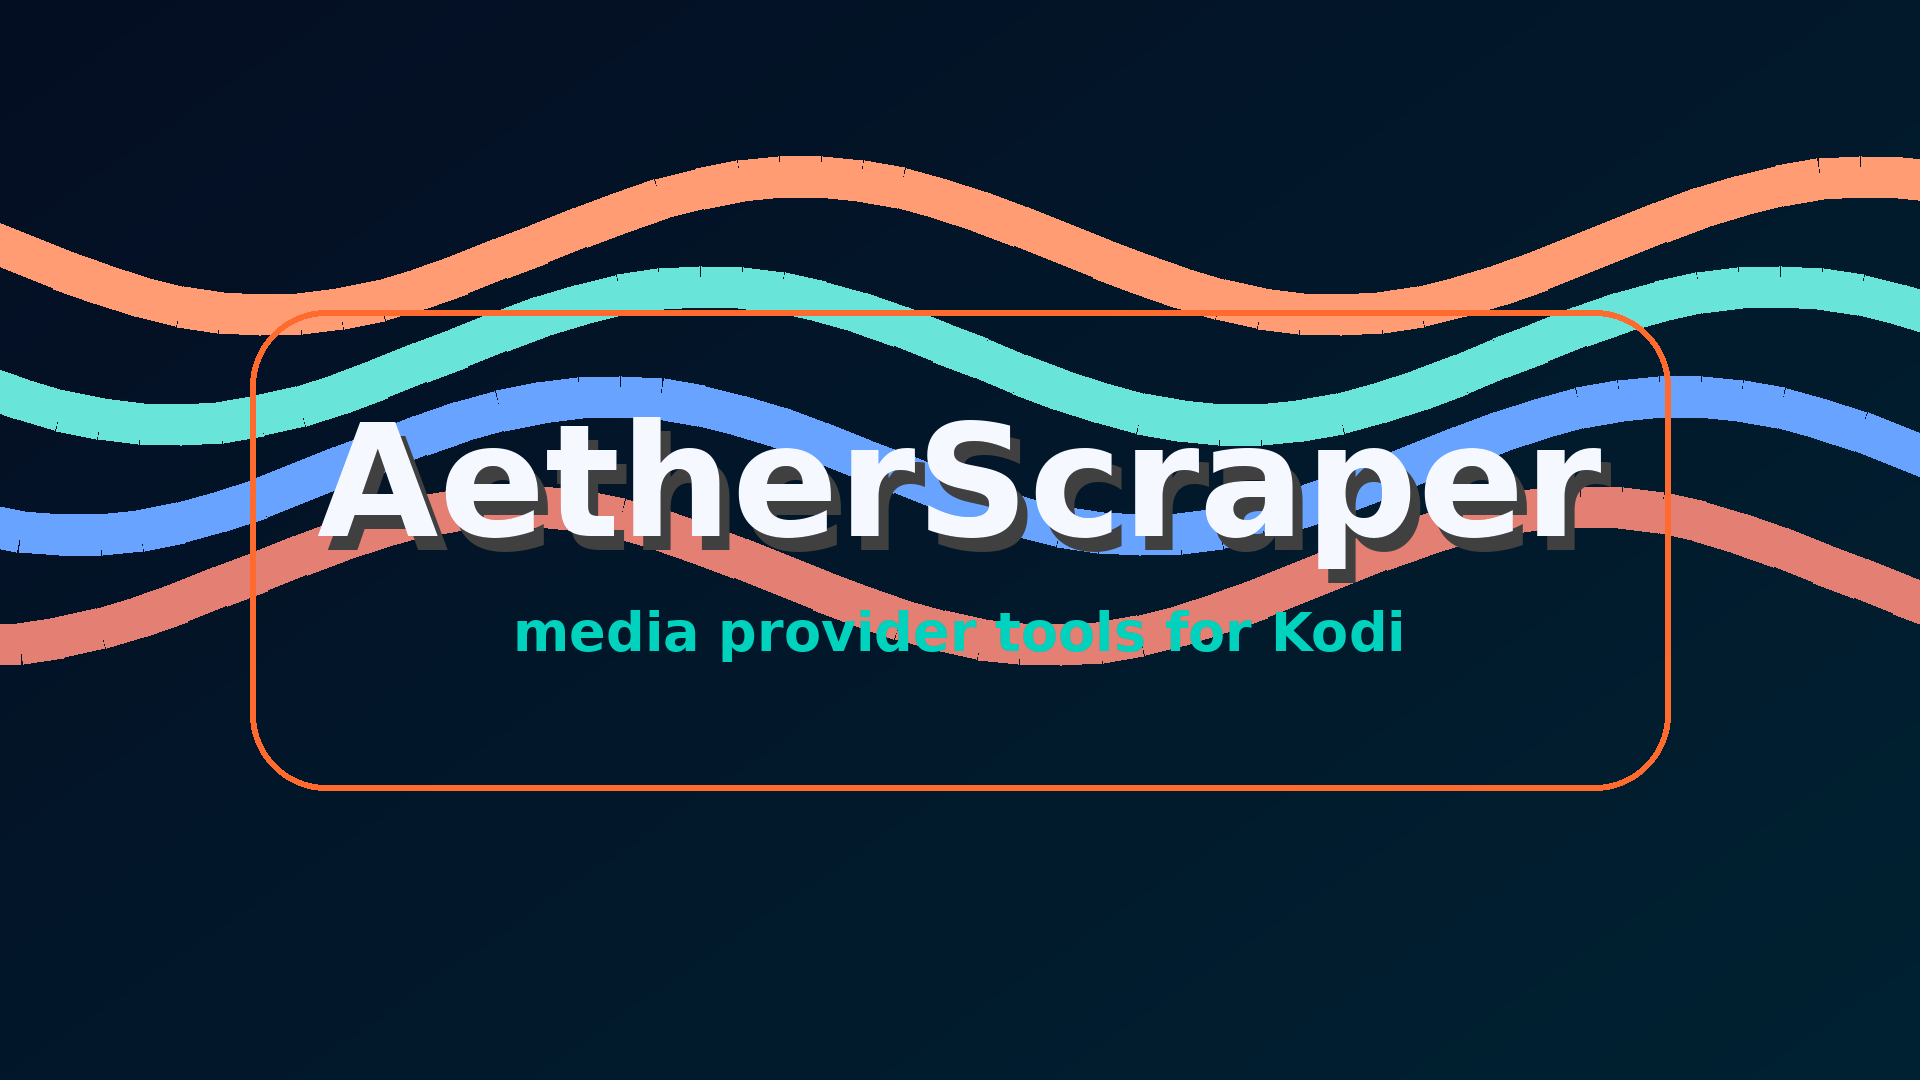
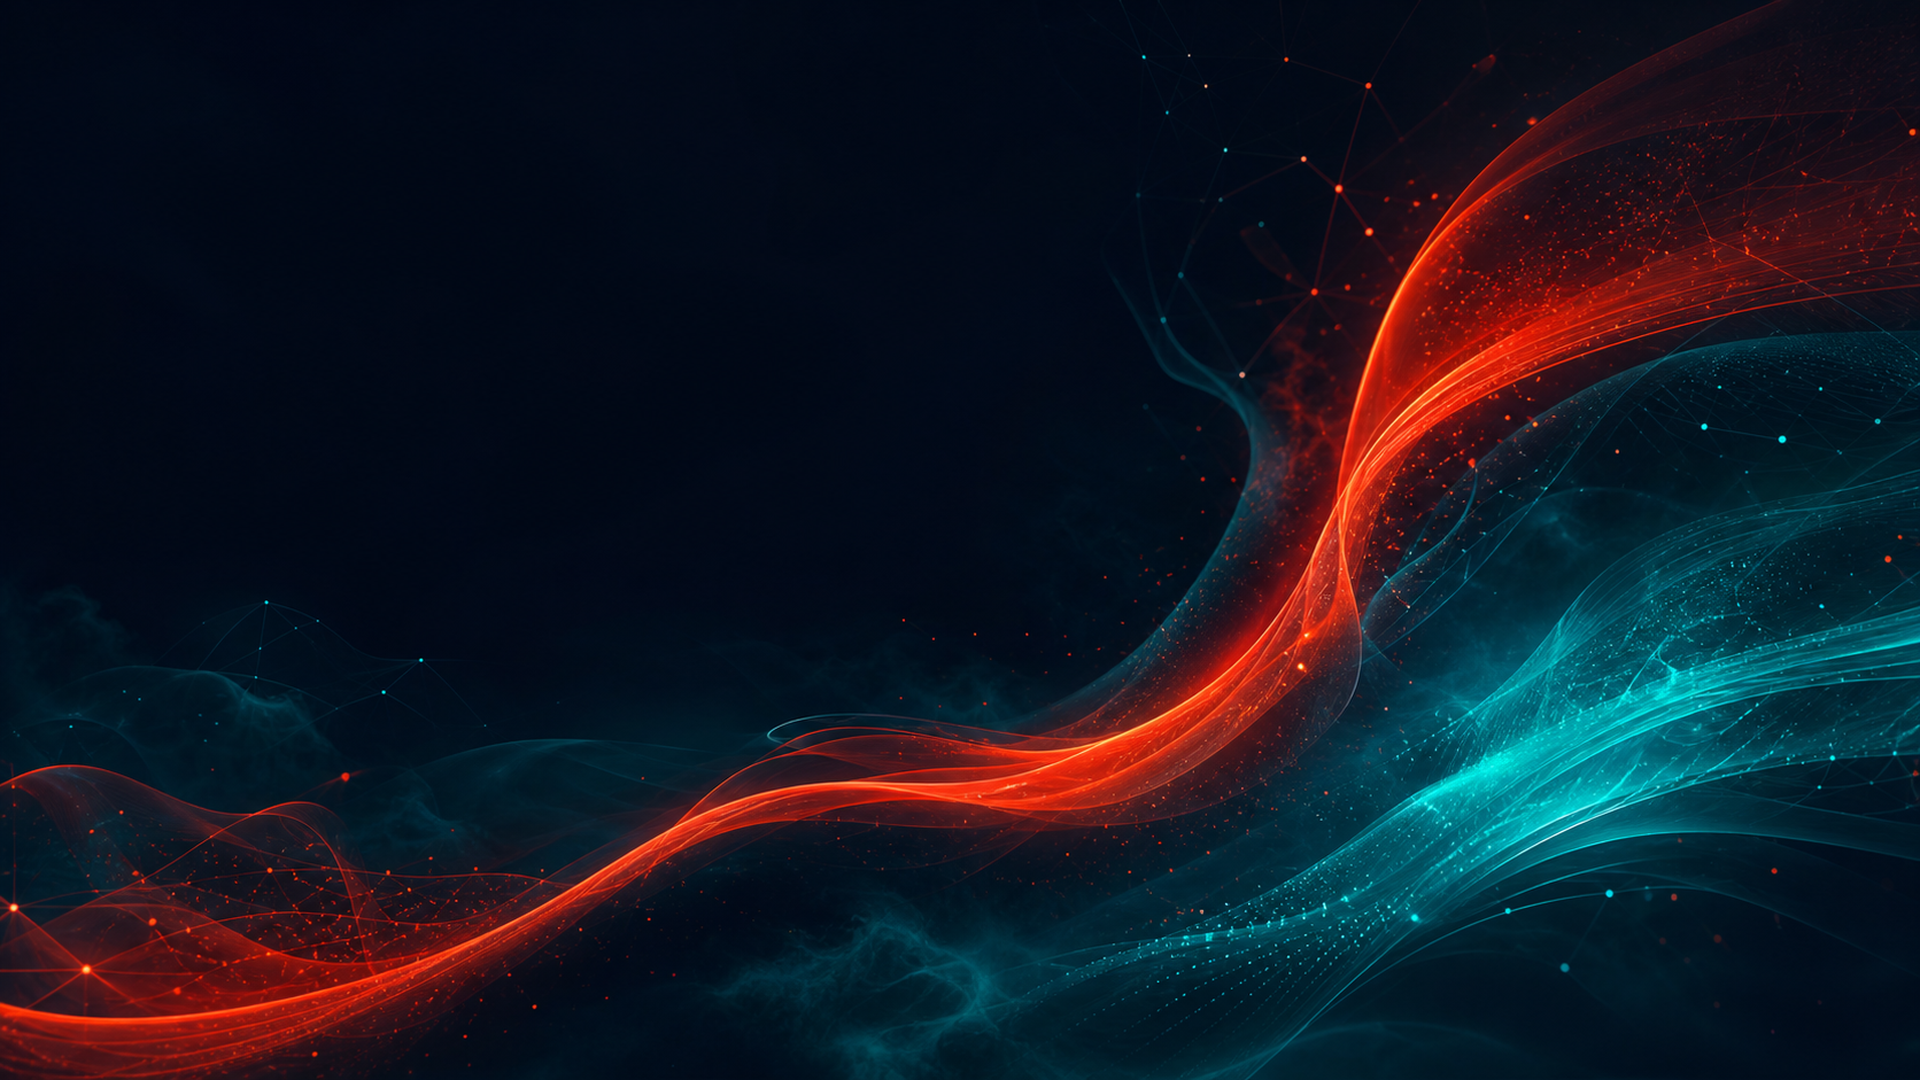
Refresh repository artwork release

diff --git a/build_repo.py b/build_repo.py
@@ -20,7 +20,7 @@ from zipfile import ZIP_DEFLATED, ZipFile
 
 REPO_ID = "repository.aetherscraper"
 REPO_NAME = "AetherScraper Repo"
-REPO_VERSION = "0.1.0"
+REPO_VERSION = "0.1.1"
 GITHUB_OWNER = "aether-addons"
 GITHUB_REPOSITORY = "AetherRepo"
 DEFAULT_BRANCH = "main"